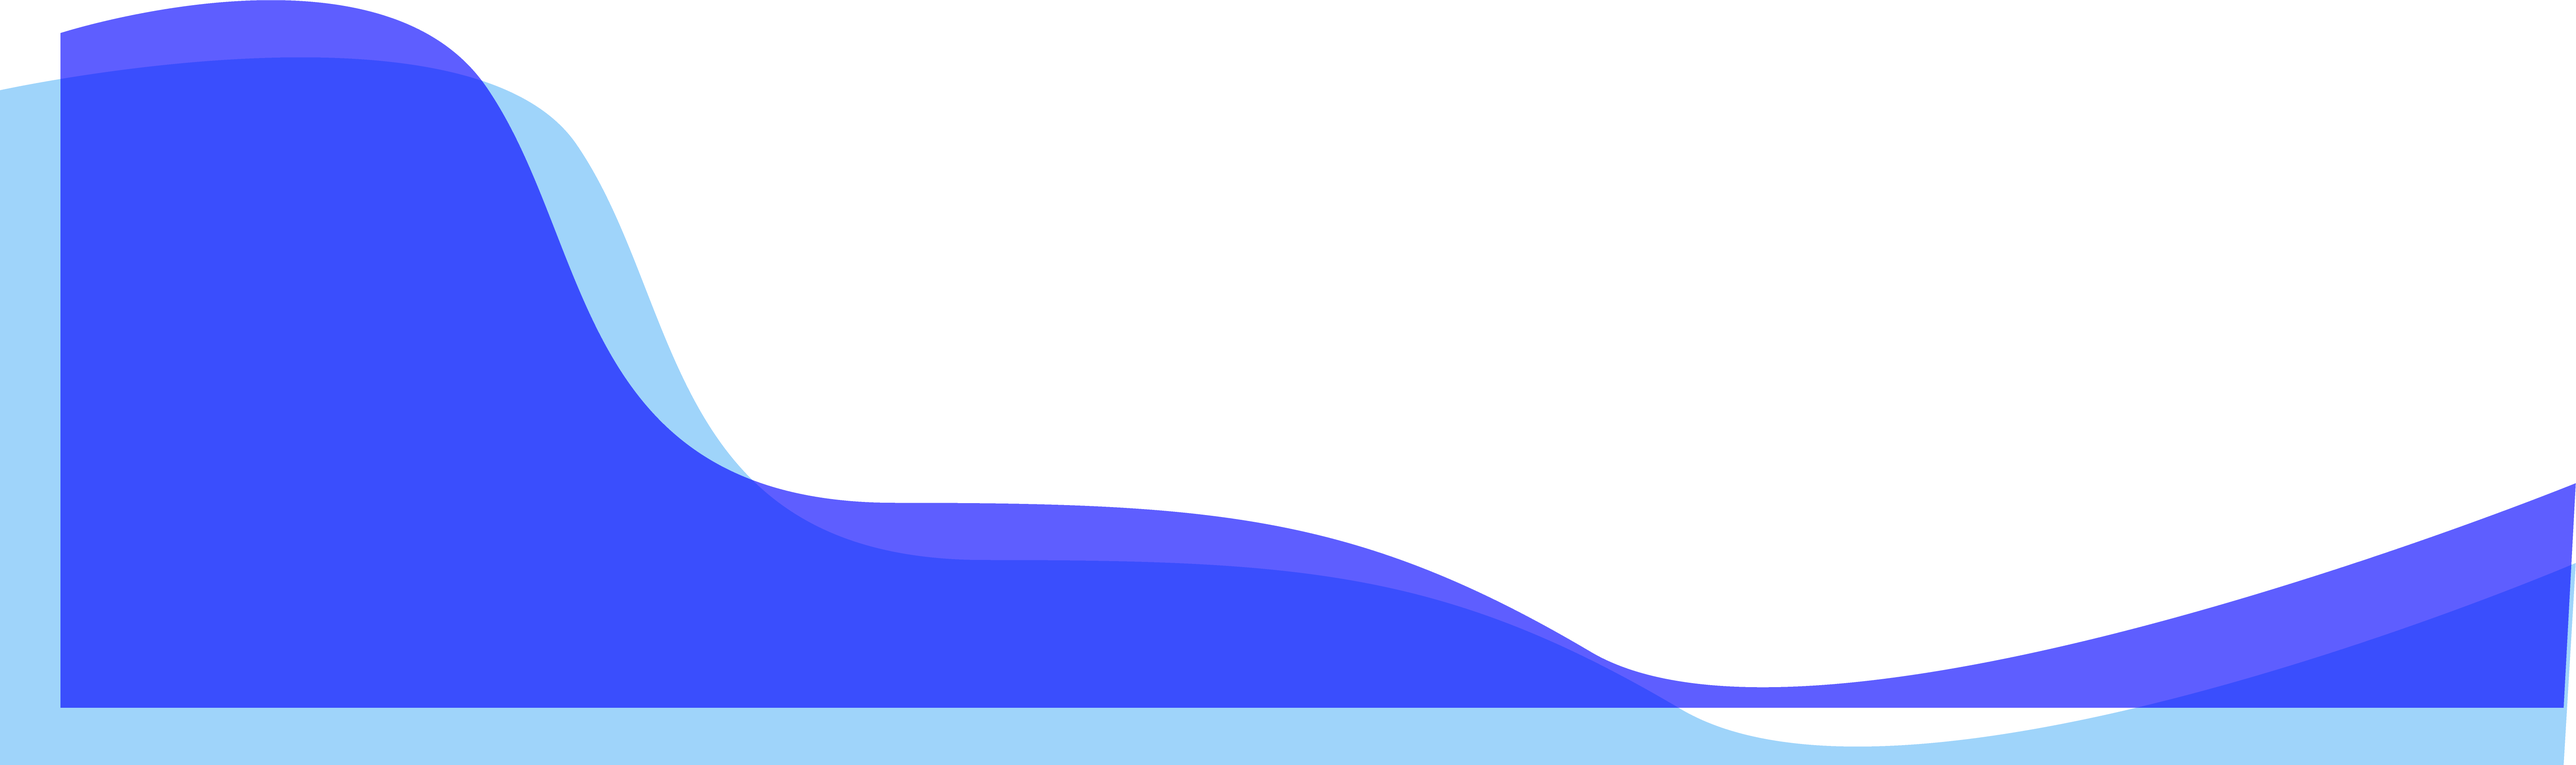
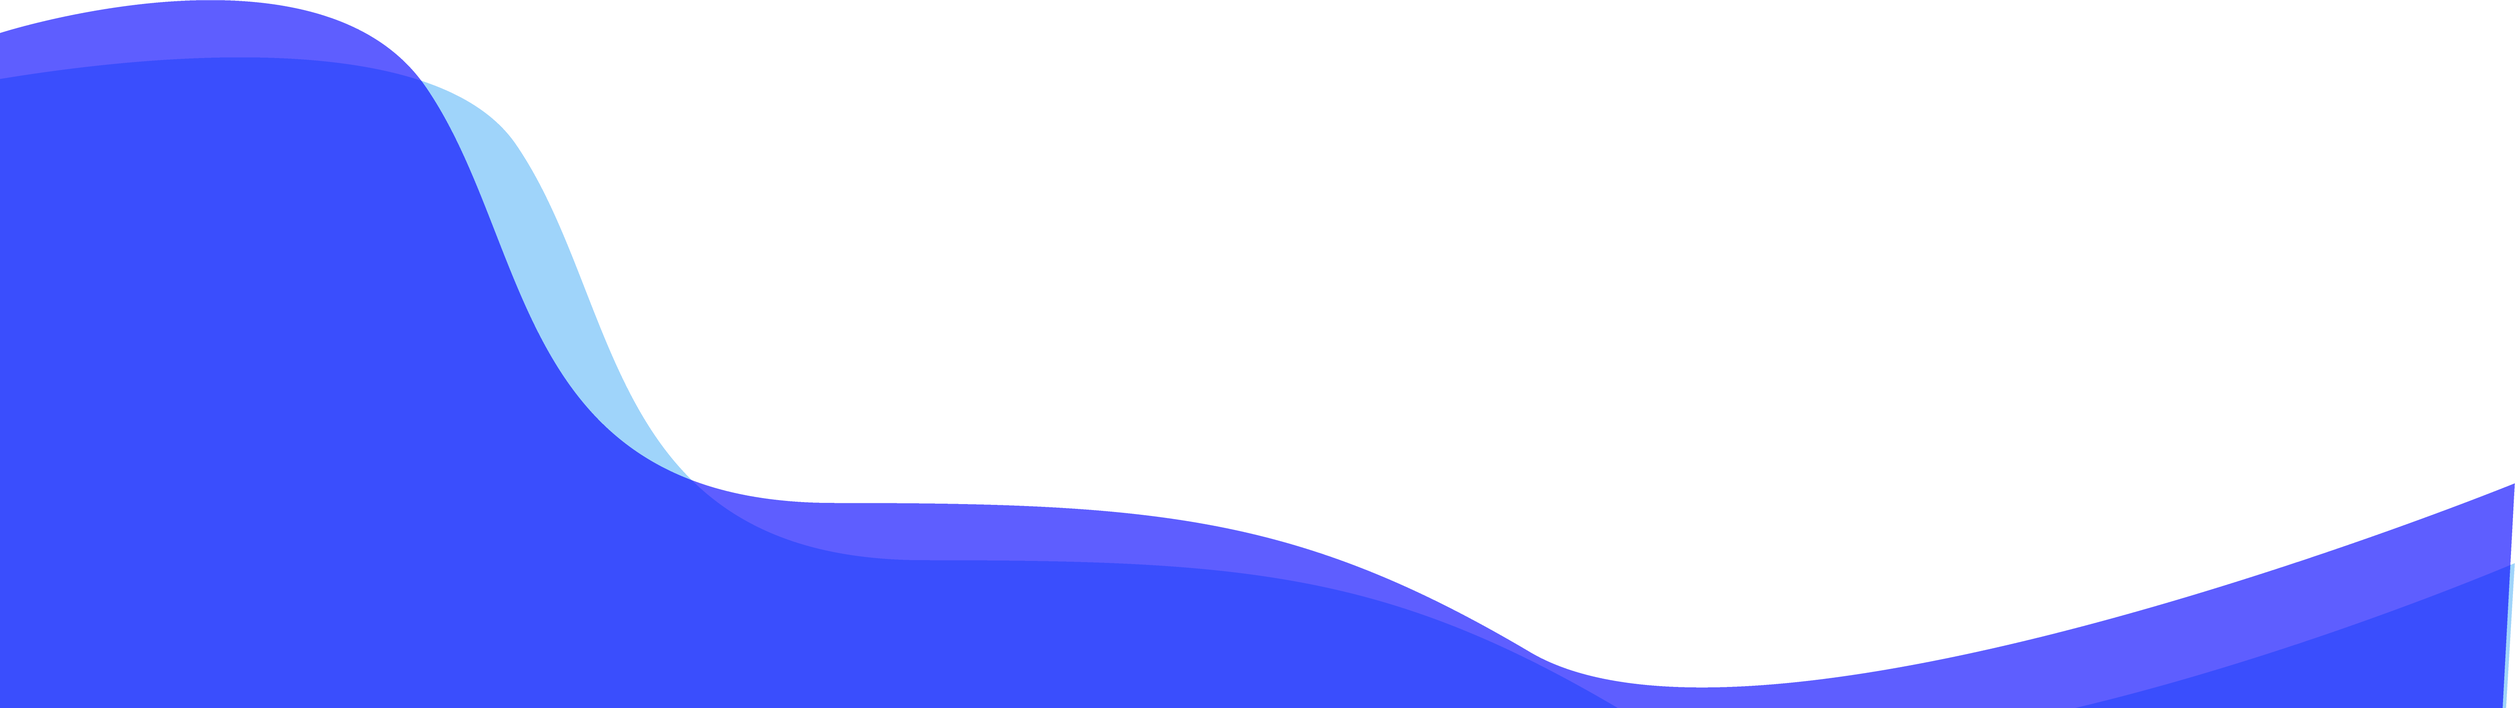
All section done

Changed region(s): [[0.0, 0.0, 1.0, 1.0]]

diff --git a/index.html b/index.html
@@ -116,22 +116,21 @@
         <p class="primaryfont">Pendapat Ahli</p>
         <div class="kolom" id="carousel">
           
-          <img src="images/WhatsApp Image 2019-09-10 at 05.17.24.jpeg" data-title="Engkus Kusnadi" data-content="Lorem ipsum dolor sit amet consectetur adipisicing elit. Pariatur eos assumenda in molestiae eligendi labore quos voluptatum dolores voluptas quibusdam, doloremque id quod sequi cum inventore? Neque impedit porro ab." id="item-1" class="round"/>
-          <img src="images/WhatsApp Image 2019-09-10 at 05.17.24.jpeg" data-title="Dede Ropandhi" data-content="Caption 2" id="item-2" class="round" />
-          <img src="images/WhatsApp Image 2019-09-10 at 05.17.24.jpeg" data-title="Sendi Junaedi" data-content="Caption 3" id="item-3" class="round" />
+          <img src="img/profile.jpeg" data-title="Engkus Kusnadi" data-number=1 data-content="Lorem ipsum dolor sit amet consectetur adipisicing elit. Pariatur eos assumenda in molestiae eligendi labore quos voluptatum dolores voluptas quibusdam, doloremque id quod sequi cum inventore? Neque impedit porro ab." id="item-1" class="round"/>
+          <img src="img/profile.jpeg" data-title="Dede Ropandhi" data-number=2 data-content="Caption 2" id="item-2" class="round" />
+          <img src="img/profile.jpeg" data-title="Sendi Junaedi" data-number=3 data-content="Caption 3" id="item-3" class="round" />
         </div>
       <div id="indicator">
-        <span class="dot2" id="profile1"></span>
-        <span class="dot2 active" id="profile2"></span>
+        <span class="dot2 active" id="profile1"></span>
+        <span class="dot2" id="profile2"></span>
         <span class="dot2" id="profile3"></span>
       </div>
   </div>
   <img class="jar1" src="img/jar1.png">
   <img class="jar2" src="img/jar2.png">
-  <img class="jar3" src="img/bg_section.png">
   <div class="kolom12 tab secondaryfont" id="textbox">
     <h2>Engkus Kusnadi</h2>
-    <p><i>Lorem ipsum dolor sit amet consectetur adipisicing elit. Pariatur eos assumenda in molestiae eligendi labore quos voluptatum dolores voluptas quibusdam, doloremque id quod sequi cum inventore? Neque impedit porro ab.</i></p>
+    <p><i>"Lorem ipsum dolor sit amet consectetur adipisicing elit. Pariatur eos assumenda in molestiae eligendi labore quos voluptatum dolores voluptas quibusdam, doloremque id quod sequi cum inventore? Neque impedit porro ab."</i></p>
   </div>
 </section>
 <section id="video">
@@ -143,24 +142,63 @@
 <div class="p"></div>
 <div class="grad">
   <div class="p kolom white">
-  <div class="kolom4 secondaryfont right" id="numeric1"><i class="round-log hideme">60%</i>
+  <div class="kolom4 secondaryfont right" id="numeric1"><i class="round-log">60%</i>
     <p style="padding-right: 40px">SMA</p>
   </div>
-  <div class="kolom4 secondaryfont" id="numeric2"><i class="round-log2 hideme">23%</i>
+  <div class="kolom4 secondaryfont" id="numeric2"><i class="round-log2">23%</i>
     <p>SMK</p>
   </div>
-  <div class="kolom4 secondaryfont left" id="numeric3"><i class="round-log3 hideme">4,4%</i>
+  <div class="kolom4 secondaryfont left" id="numeric3"><i class="round-log3">4,4%</i>
     <p style="padding-left: 10px">Diploma</p>
-    <span style=" margin-left: 125px;" class="yearslider active2" id="2014">2014</span> 
-    <span style=" margin-left: 325px;" class="yearslider" id="2018">2018</span>
+    <span style=" margin-left: 185px;" class="primaryfont yearslider active2" id="2014">2014</span> 
+    <span style=" margin-left: 325px;" class="primaryfont yearslider" id="2018">2018</span>
   </div>
 </div>
 </div>
 </section>
-<div class="kolom">
-    <span class="circle"></span>
+<section id="againts" style="height:150vh">
+    <div class="kolom12">
+        <span class="circle"></span>
+        </div>
+    <div class="secondaryfont againts">
+      <p>Millennial againts</p>
+      <p>Industrial 4.0</p>
     </div>
-<section id="againts">
+    <img src="img/bg_section1.png" class="bgsection">
+    <div class="kolom12 alert center secondaryfont">
+        <h1 class="primaryfont">Siapkan Dirimu!</h1>
+        <p>Lorem ipsum dolor sit amet consectetur adipisicing elit. Pariatur eos assumenda in molestiae eligendi labore quos voluptatum dolores voluptas quibusdam, doloremque id quod sequi cum inventore? Neque impedit porro ab.</p>
+        <a href="#bisnis"><img class="slidedown" src="img/downarrow.png"></a>
+      </div>
+</section>
+<section id="bisnis" style="height:150vh">
+    <div class="grad2">
+    <div class="kolom">
+        <div class="kolom6">
+          <img src="img/ilustration_toko.png" style="width: 100%; padding-left: 10rem; padding-top: 10rem;">
+        </div>
+        <div class="kolom6 content white" style="padding-top: 3rem; padding-left: 3rem;">
+          <p class="primaryfont">Bisnis Online</p>
+          <p class="secondaryfont">Milenial (juga dikenal sebagai Generasi Y, Gen Y atau Generasi Langgas) adalah kelompok demografi setelah Generasi X (Gen-X). Tidak ada batas waktu yang pasti untuk awal dan akhir dari kelompok ini. Para ahli dan peneliti biasanya menggunakan awal 1980-an sebagai awal kelahiran. kelompok ini dan pertengahan tahun 1990-an hingga awal 2000-an sebagai akhir kelahiran.</p>
+          <button style="padding: 0.5rem 1rem;">View More</button>
+        </div>
+      </div>
+    </div>
+</section>
+<section id="footer">
+    <div class="profile">
+        <p class="secondaryfont" style="font-size: 3.5rem; padding-top: 5rem;">Our Team</p>
+      <div id="indicator">
+        <span class="dot2 active" id="profile1"></span>
+        <span class="dot2" id="profile2"></span>
+        <span class="dot2" id="profile3"></span>
+      </div>
+      <div class="kolom12 tab2 secondaryfont" id="textbox2">
+          <h1 class="primaryfont">Shaddam Amru Hasibuan</h1>
+          <p>Programmer/Coder</p>
+        </div>
+  </div>
+  <img class="foot" src="img/bg_footer.png">
 </section>
 <script src="main.js"></script>
 </body>

diff --git a/style.css b/style.css
@@ -1,6 +1,6 @@
 @font-face {
   font-family: 'gilroyextrabold';
-  src: url('gilroy-extrabold-webfont.woff2') format('woff2'),
+  src: url('gilroy-extrabold-webfont.ttf') format('woff2'),
        url('gilroy-extrabold-webfont.woff') format('woff');
   font-weight: normal;
   font-style: normal;
@@ -344,8 +344,29 @@ margin-top: 180px;
   text-align: center;
 }
 
-#textbox i{
+.tab i{
 font-style: normal;
+}
+
+.tab p{
+text-align: justify !important;
+font-size: 20px;
+}
+
+.tab2{
+  padding: 0 20rem;
+  text-align: center;
+}
+
+.tab2 p{
+text-align: center !important;
+font-size: 24px;
+margin: 0;
+}
+
+.tab2 h1{
+  font-size: 2.5rem;
+  margin-bottom: 0;
 }
 
 .video-mask{
@@ -362,7 +383,12 @@ font-style: normal;
 
 .grad{
   height: 30rem;
-background: linear-gradient(90deg, #005B97 24%, #00A5F4 79%);
+background: linear-gradient(90deg, #005B97 0%, #00A5F4 100%);
+}
+.grad2{
+z-index: -1;
+height: 150vh;
+background: linear-gradient(90deg, #005B97 0%, #00A5F4 100%);
 }
 
 .p{
@@ -376,7 +402,7 @@ background: linear-gradient(90deg, #005B97 24%, #00A5F4 79%);
   text-align: left !important;
 }
 .p .secondaryfont{
-  font-size: 4rem;
+  font-size: 4.5rem;
   text-align: center;
 }
 .p .secondaryfont p{
@@ -417,10 +443,58 @@ margin-top: 10rem;
 .secondaryfont i{
   font-style: normal;
 }
-.hideme
+/* .hideme
 {
     opacity:0;
-}
+} */
 .yearslider{
-  font-size: 28px; margin-top: 55px; position: absolute; cursor: pointer;;
+  font-size: 28px; ; position: absolute; cursor: pointer; 
+}
+
+.againts{
+  margin: 0;
+  font-size: 2.5rem;
+  text-align: right;
+  margin-right: 8rem;
+  margin-top: 8rem;
+  padding-bottom: 2rem;
+}
+.againts p{
+  margin: 10px;
+}
+
+.alert{
+  padding: 0 28rem;
+  text-align: center;
+  display: inline-block
+}
+
+.alert .primaryfont{
+  font-size: 3rem;
+}
+.alert p{
+  text-align: justify !important;
+  font-size: 1.5rem;
+}
+
+.bgsection{
+  z-index: -5;
+  position: absolute;
+  margin-top: 8rem;
+  width: 30%;
+}
+.slidedown{
+  cursor: pointer;
+  padding-top: 3rem;
+  width: 15%;
+  transition: 0.6s;
+}
+.slidedown:hover{
+  transition: 0.6s;
+  padding-top: 5rem;
+}
+
+.foot{
+  height: 26rem;
+  max-width: 100%;
 }

diff --git a/main.js b/main.js
@@ -27,6 +27,19 @@ $(document).ready(function () {
     return false
   });
 
+  $('#profile2').bind('click', function () {
+
+    $('#profile2').addClass( "active" );
+    $('#profile1').removeClass("active");
+    $('#profile3').removeClass("active");
+
+    $('#textbox').fadeOut('fast', function(){
+      carousel.next();
+      $('#textbox').fadeIn('fast');
+  });
+    return false
+  });
+
   $('#profile3').bind('click', function () {
 
     $('#profile3').addClass( "active" );
@@ -48,6 +61,12 @@ $(document).ready(function () {
 // PROFILE SLIDER
 
 //CONTENT SLIDER
+
+
+
+
+
+
 });
 // CLICK 2
   $('#slideContent2').click(function(e){
@@ -181,24 +200,24 @@ slides[slideIndex-1].style.display = "block";
 //Fade out
 $(document).ready(function() {
     
-  /* Every time the window is scrolled ... */
-  $(window).scroll( function(){
-  
-      /* Check the location of each desired element */
-      $('.hideme').each( function(i){
-          
-          var bottom_of_object = $(this).offset().top + $(this).outerHeight();
-          var bottom_of_window = $(window).scrollTop() + $(window).height();
-          
-          /* If the object is completely visible in the window, fade it it */
-          if( bottom_of_window > bottom_of_object ){
-              
-              $(this).animate({'opacity':'1'},500);
-                  
-          }
-          
-      }); 
-  
-  });
-  
+    // /* Every time the window is scrolled ... */
+    // $(window).scroll( function(){
+    
+    //     /* Check the location of each desired element */
+    //     $('.hideme').each( function(i){
+            
+    //         var bottom_of_object = $(this).position().top + $(this).outerHeight();
+    //         var bottom_of_window = $(window).scrollTop() + $(window).height();
+            
+    //         /* If the object is completely visible in the window, fade it it */
+    //         if( bottom_of_window > bottom_of_object ){
+                
+    //             $(this).animate({'opacity':'1'},1000);
+                    
+    //         }
+            
+    //     }); 
+    
+    // });
+    
 });

diff --git a/jquery.waterwheelCarousel.js b/jquery.waterwheelCarousel.js
@@ -566,6 +566,15 @@
         } else if (direction == 'forward') {
           options.movingToCenter(nextItemFromCenter());
           data.currentDirection = 'forward';
+        }else if (direction == 'num1') {
+          options.movingToCenter(1);
+          data.currentDirection = 'num1';
+        }else if (direction == 'num1') {
+          options.movingToCenter(2);
+          data.currentDirection = 'num2';
+        }else if (direction == 'num3') {
+          options.movingToCenter(3);
+          data.currentDirection = 'num3';
         }
       }
 
@@ -633,6 +642,24 @@
       options.autoPlay = 0;
 
       moveOnce('backward');
+    }
+    this.get1 = function() {
+      autoPlay(true);
+      options.autoPlay = 0;
+
+      moveOnce('num1');
+    }
+    this.get2 = function () {
+      autoPlay(true);
+      options.autoPlay = 0;
+
+      moveOnce('num2');
+    }
+    this.get3 = function () {
+      autoPlay(true);
+      options.autoPlay = 0;
+
+      moveOnce('num3');
     }
 
     this.reload(startingOptions);
